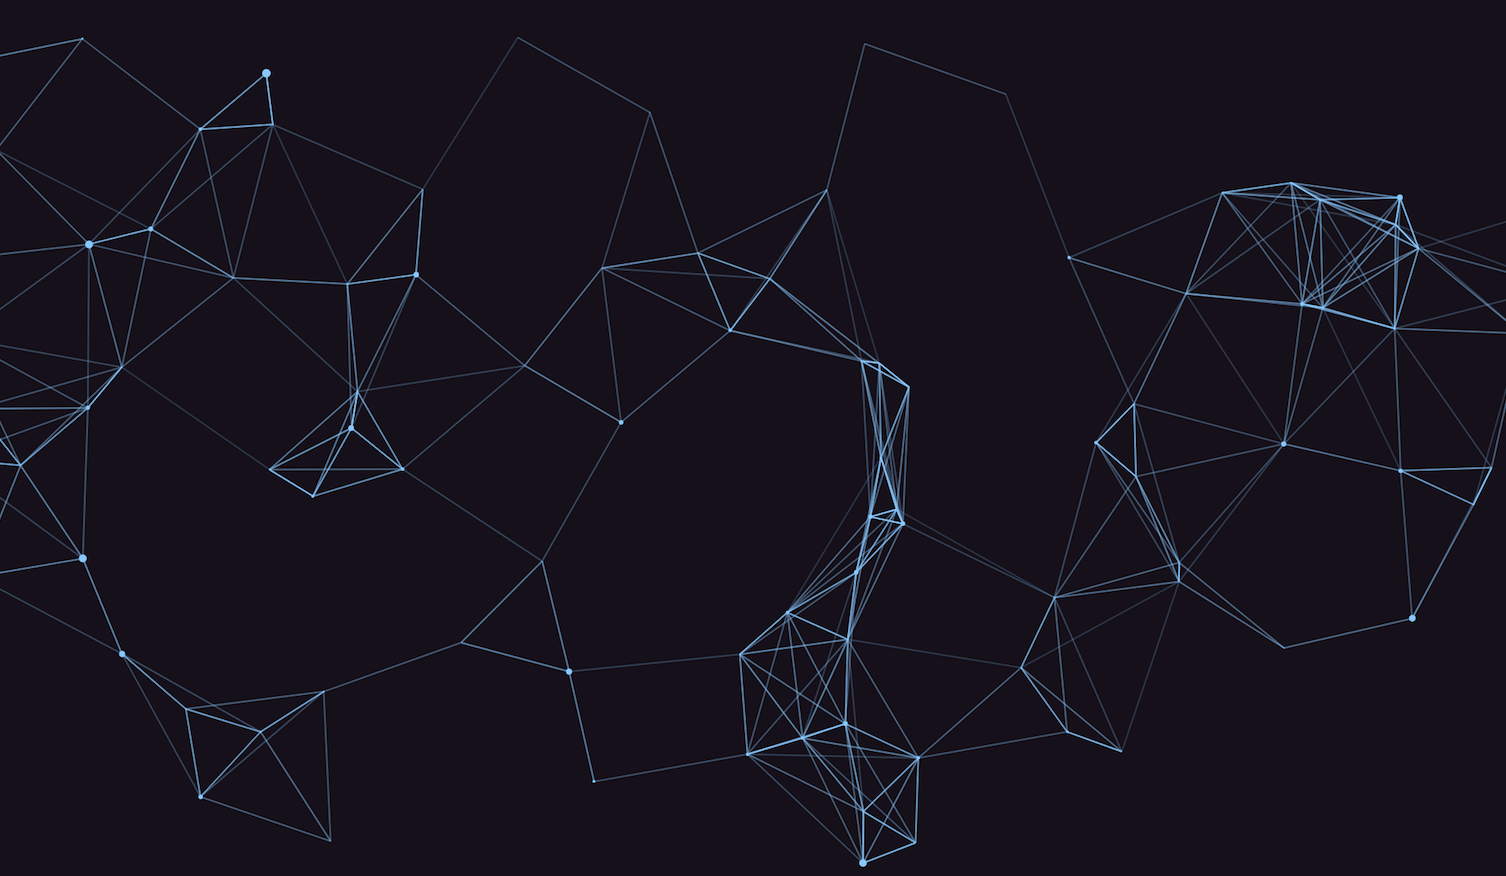
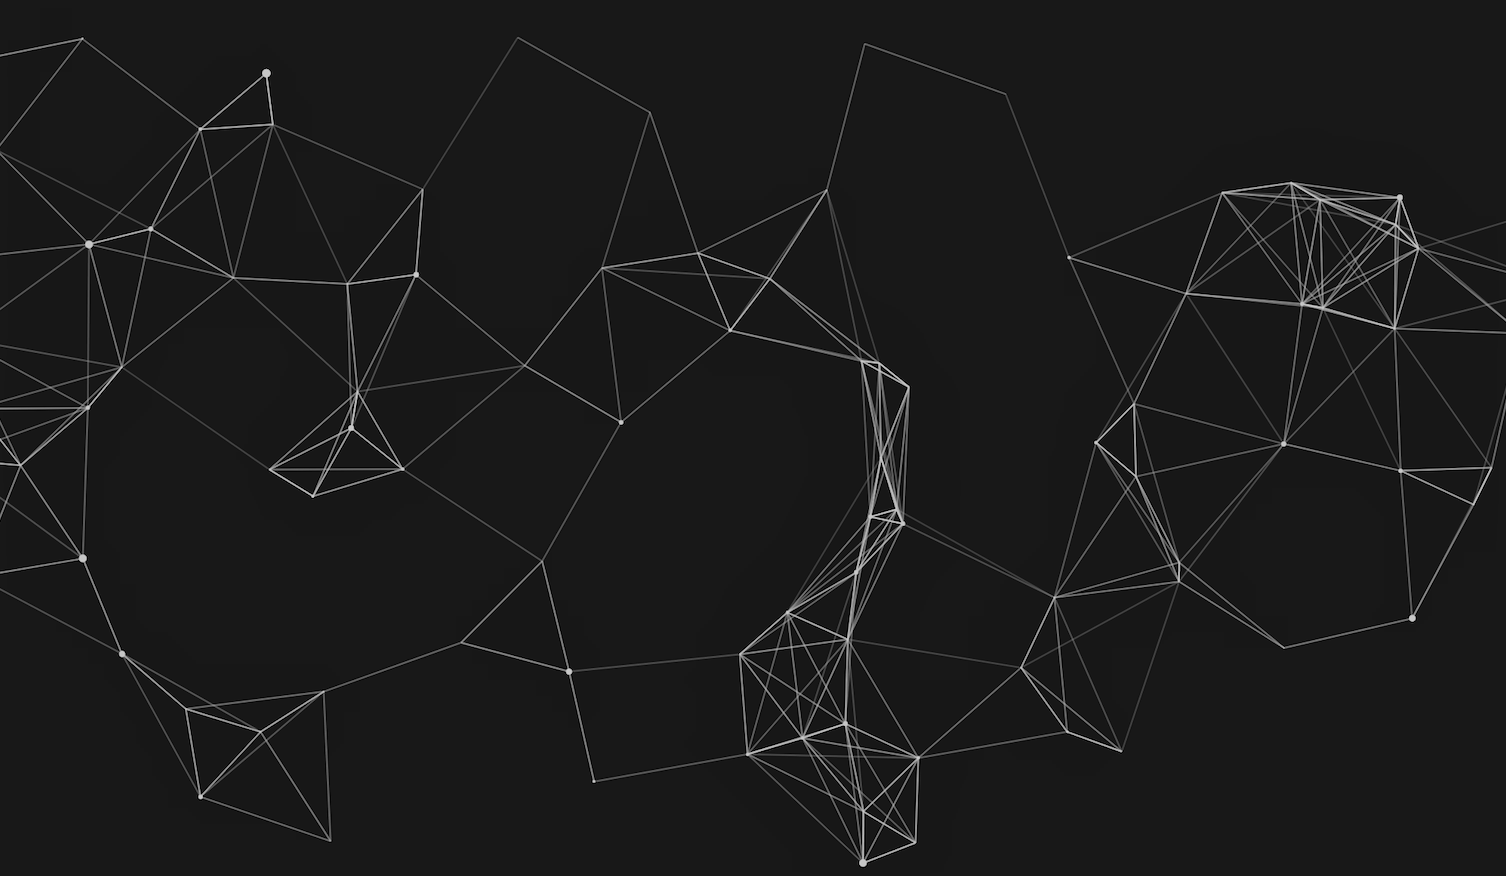
added nice background

diff --git a/style.css b/style.css
@@ -1,3 +1,11 @@
+body, html{
+    background: url(background.jpg) no-repeat center center fixed; 
+    -webkit-background-size: cover;
+    -moz-background-size: cover;
+    -o-background-size: cover;
+    background-size: cover;
+}
+  
 .image{
     height: 25%;
     width: 25%;
